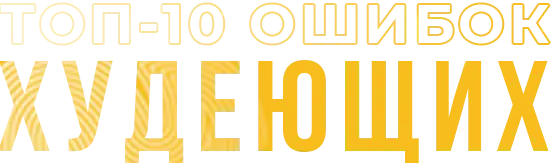
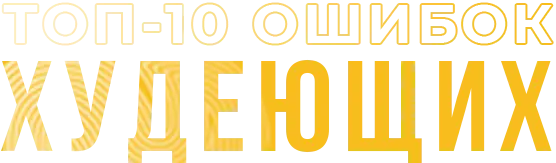
меняет hero-text

diff --git a/index.html b/index.html
@@ -28,10 +28,10 @@
 							</span>
 						</h1>
 						<picture>
-							<source media="(min-width: 610px)" srcset="img/hero/hero-text@desktop.webp" type="image/webp" width="553" height="163">
-							<source media="(min-width: 610px)" srcset="img/hero/hero-text@desktop.png" width="553" height="163">
+							<source media="(min-width: 610px)" srcset="img/hero/hero-text@desktop.webp" type="image/webp" width="553" height="162">
+							<source media="(min-width: 610px)" srcset="img/hero/hero-text@desktop.png" width="553" height="162">
 							<source srcset="img/hero/hero-text.webp" type="image/webp">
-							<img src="img/hero/hero-text.png" alt="надпись 'Красивые ягодицы'" class="left-lg__img" width="287" height="84">
+							<img src="img/hero/hero-text.png" alt="надпись 'Красивые ягодицы'" class="left-lg__img" width="287" height="82">
 						</picture>
 
 						<p class="left-lg__subtitle">Почему не получается добиться результата даже при регулярных тренировках и что с этим делать?
@@ -373,10 +373,10 @@
 						</h1>
 
 						<picture>
-							<source media="(min-width: 610px)" srcset="img/hero/hero-text@desktop.webp" type="image/webp" width="553" height="163">
-							<source media="(min-width: 610px)" srcset="img/hero/hero-text@desktop.png" width="553" height="163">
+							<source media="(min-width: 610px)" srcset="img/hero/hero-text@desktop.webp" type="image/webp" width="553" height="162">
+							<source media="(min-width: 610px)" srcset="img/hero/hero-text@desktop.png" width="553" height="162">
 							<source srcset="img/hero/hero-text.webp" type="image/webp">
-							<img src="img/hero/hero-text.png" alt="надпись 'Красивые ягодицы'" class="left-lg__img" width="285" height="84">
+							<img src="img/hero/hero-text.png" alt="надпись 'Красивые ягодицы'" class="left-lg__img" width="285" height="83">
 						</picture>
 
 						<p class="left-lg__subtitle">Почему не получается добиться результата даже при регулярных тренировках и что с этим делать?
